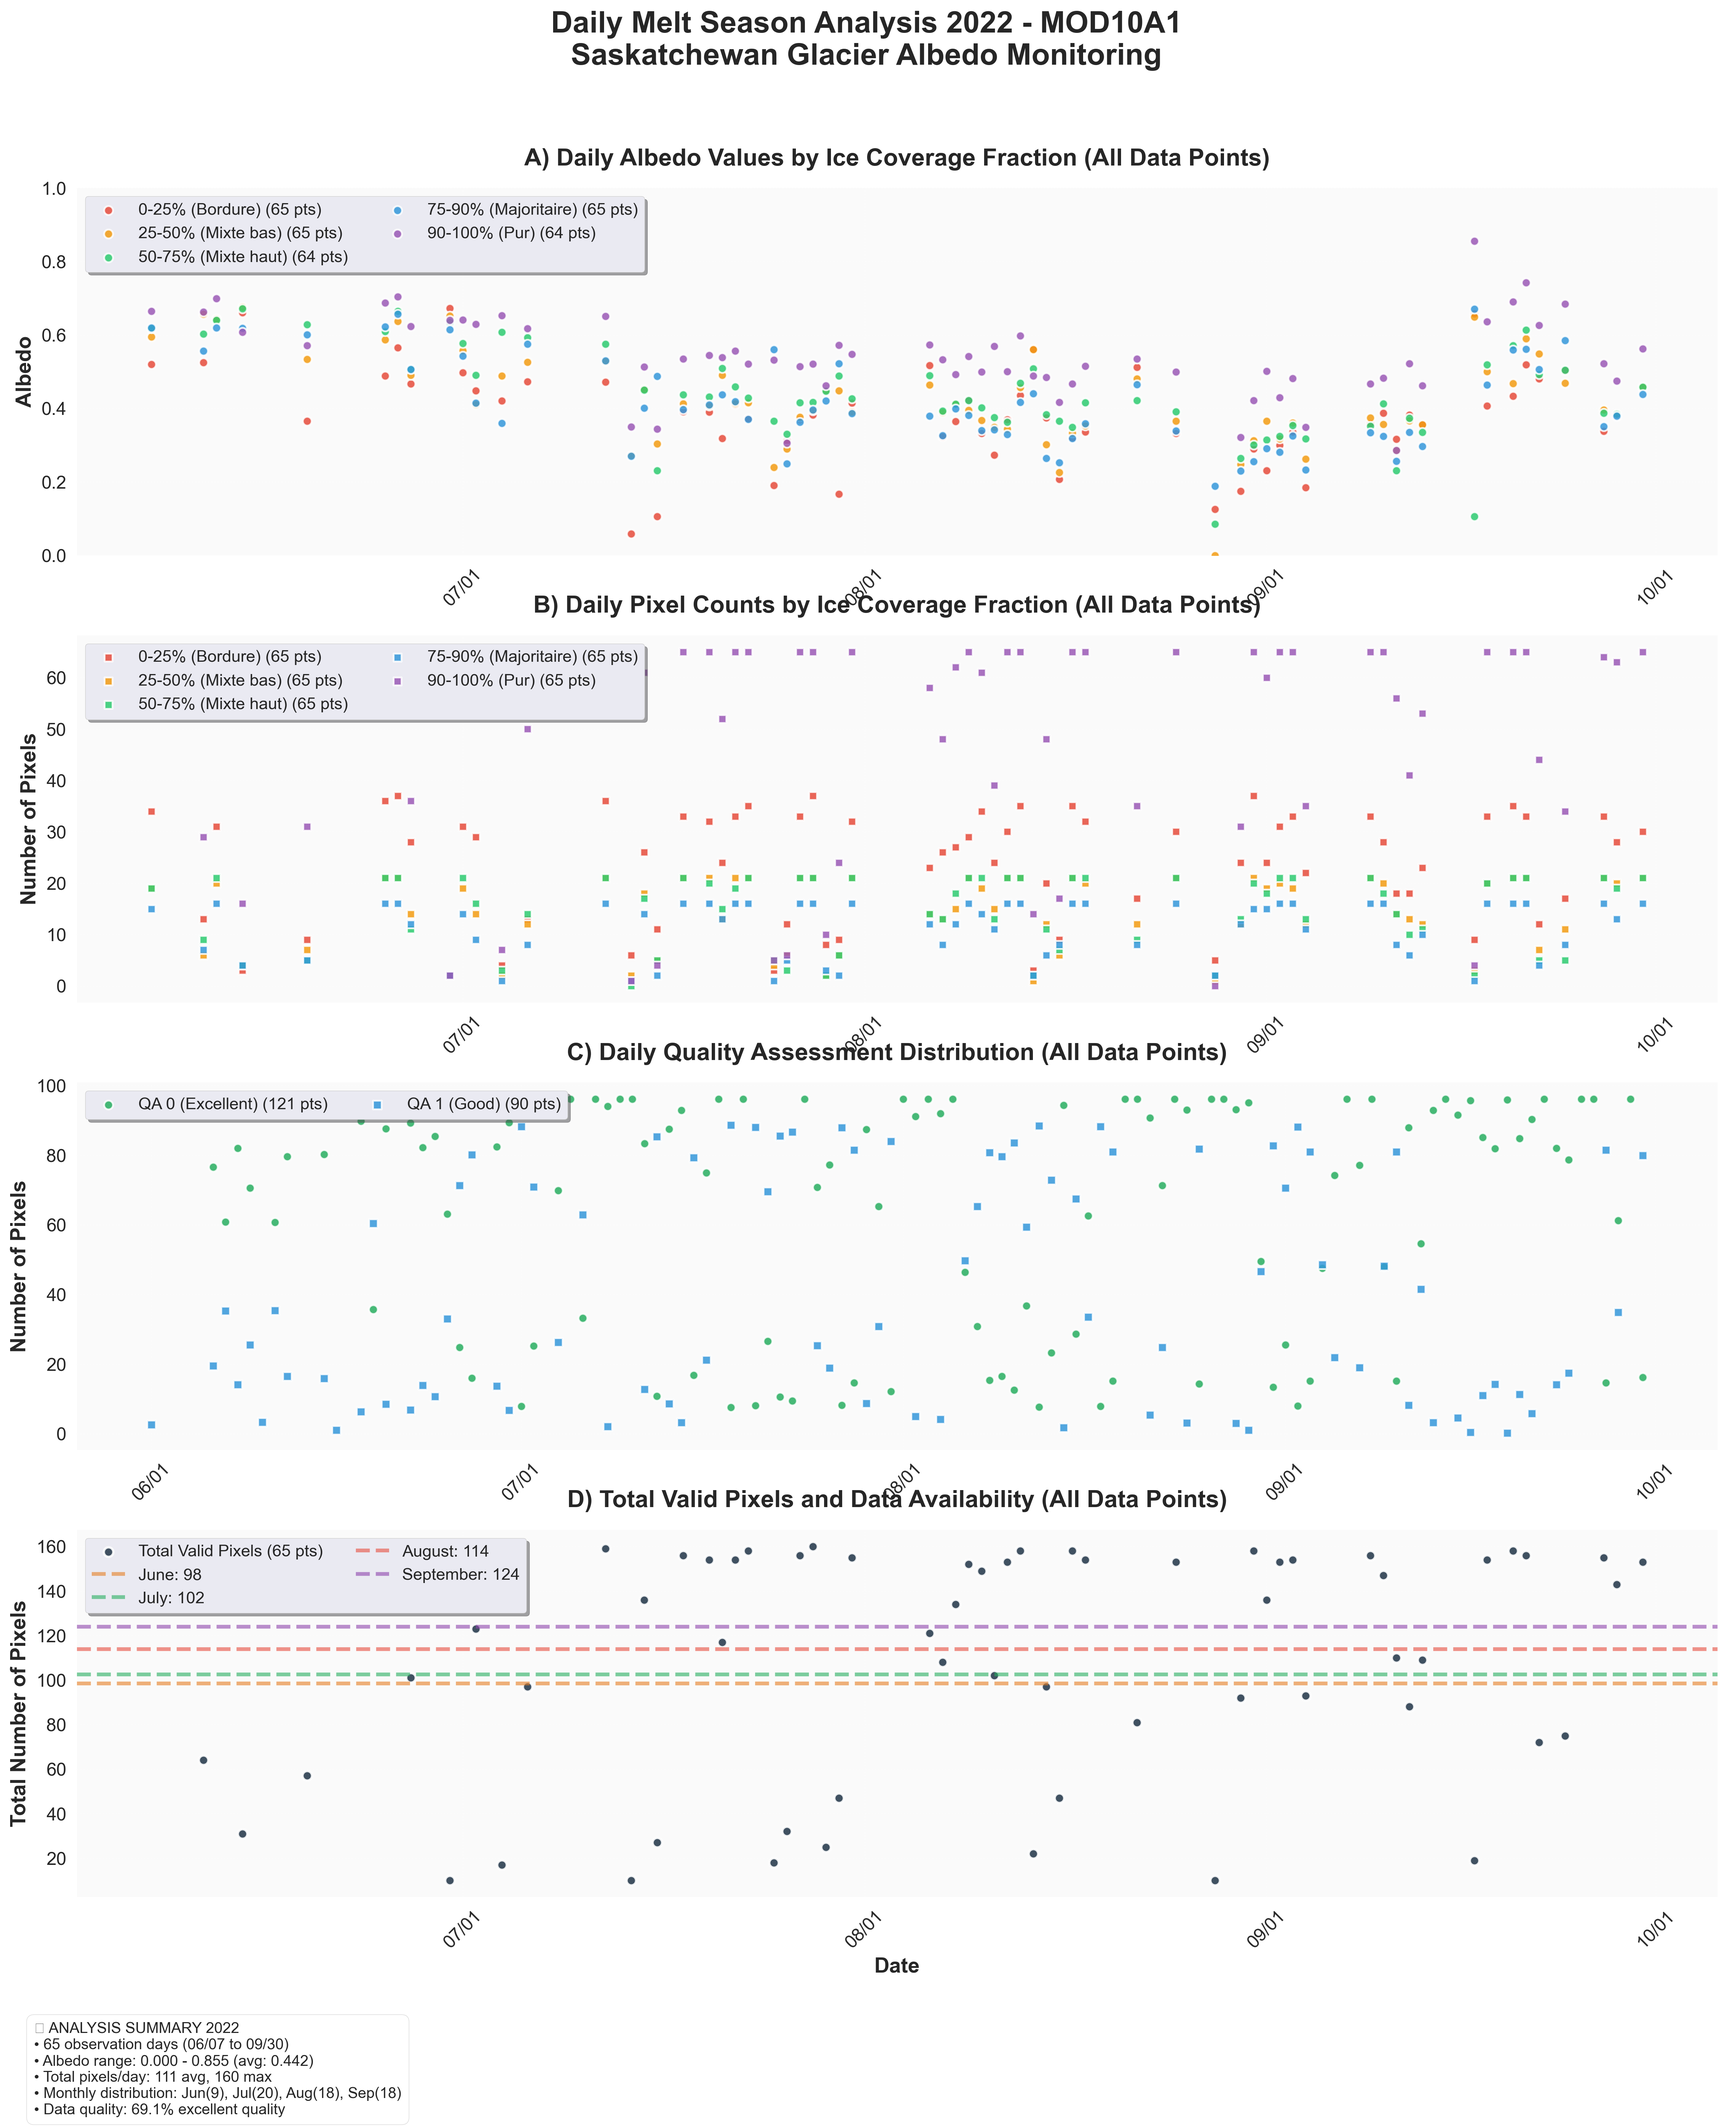
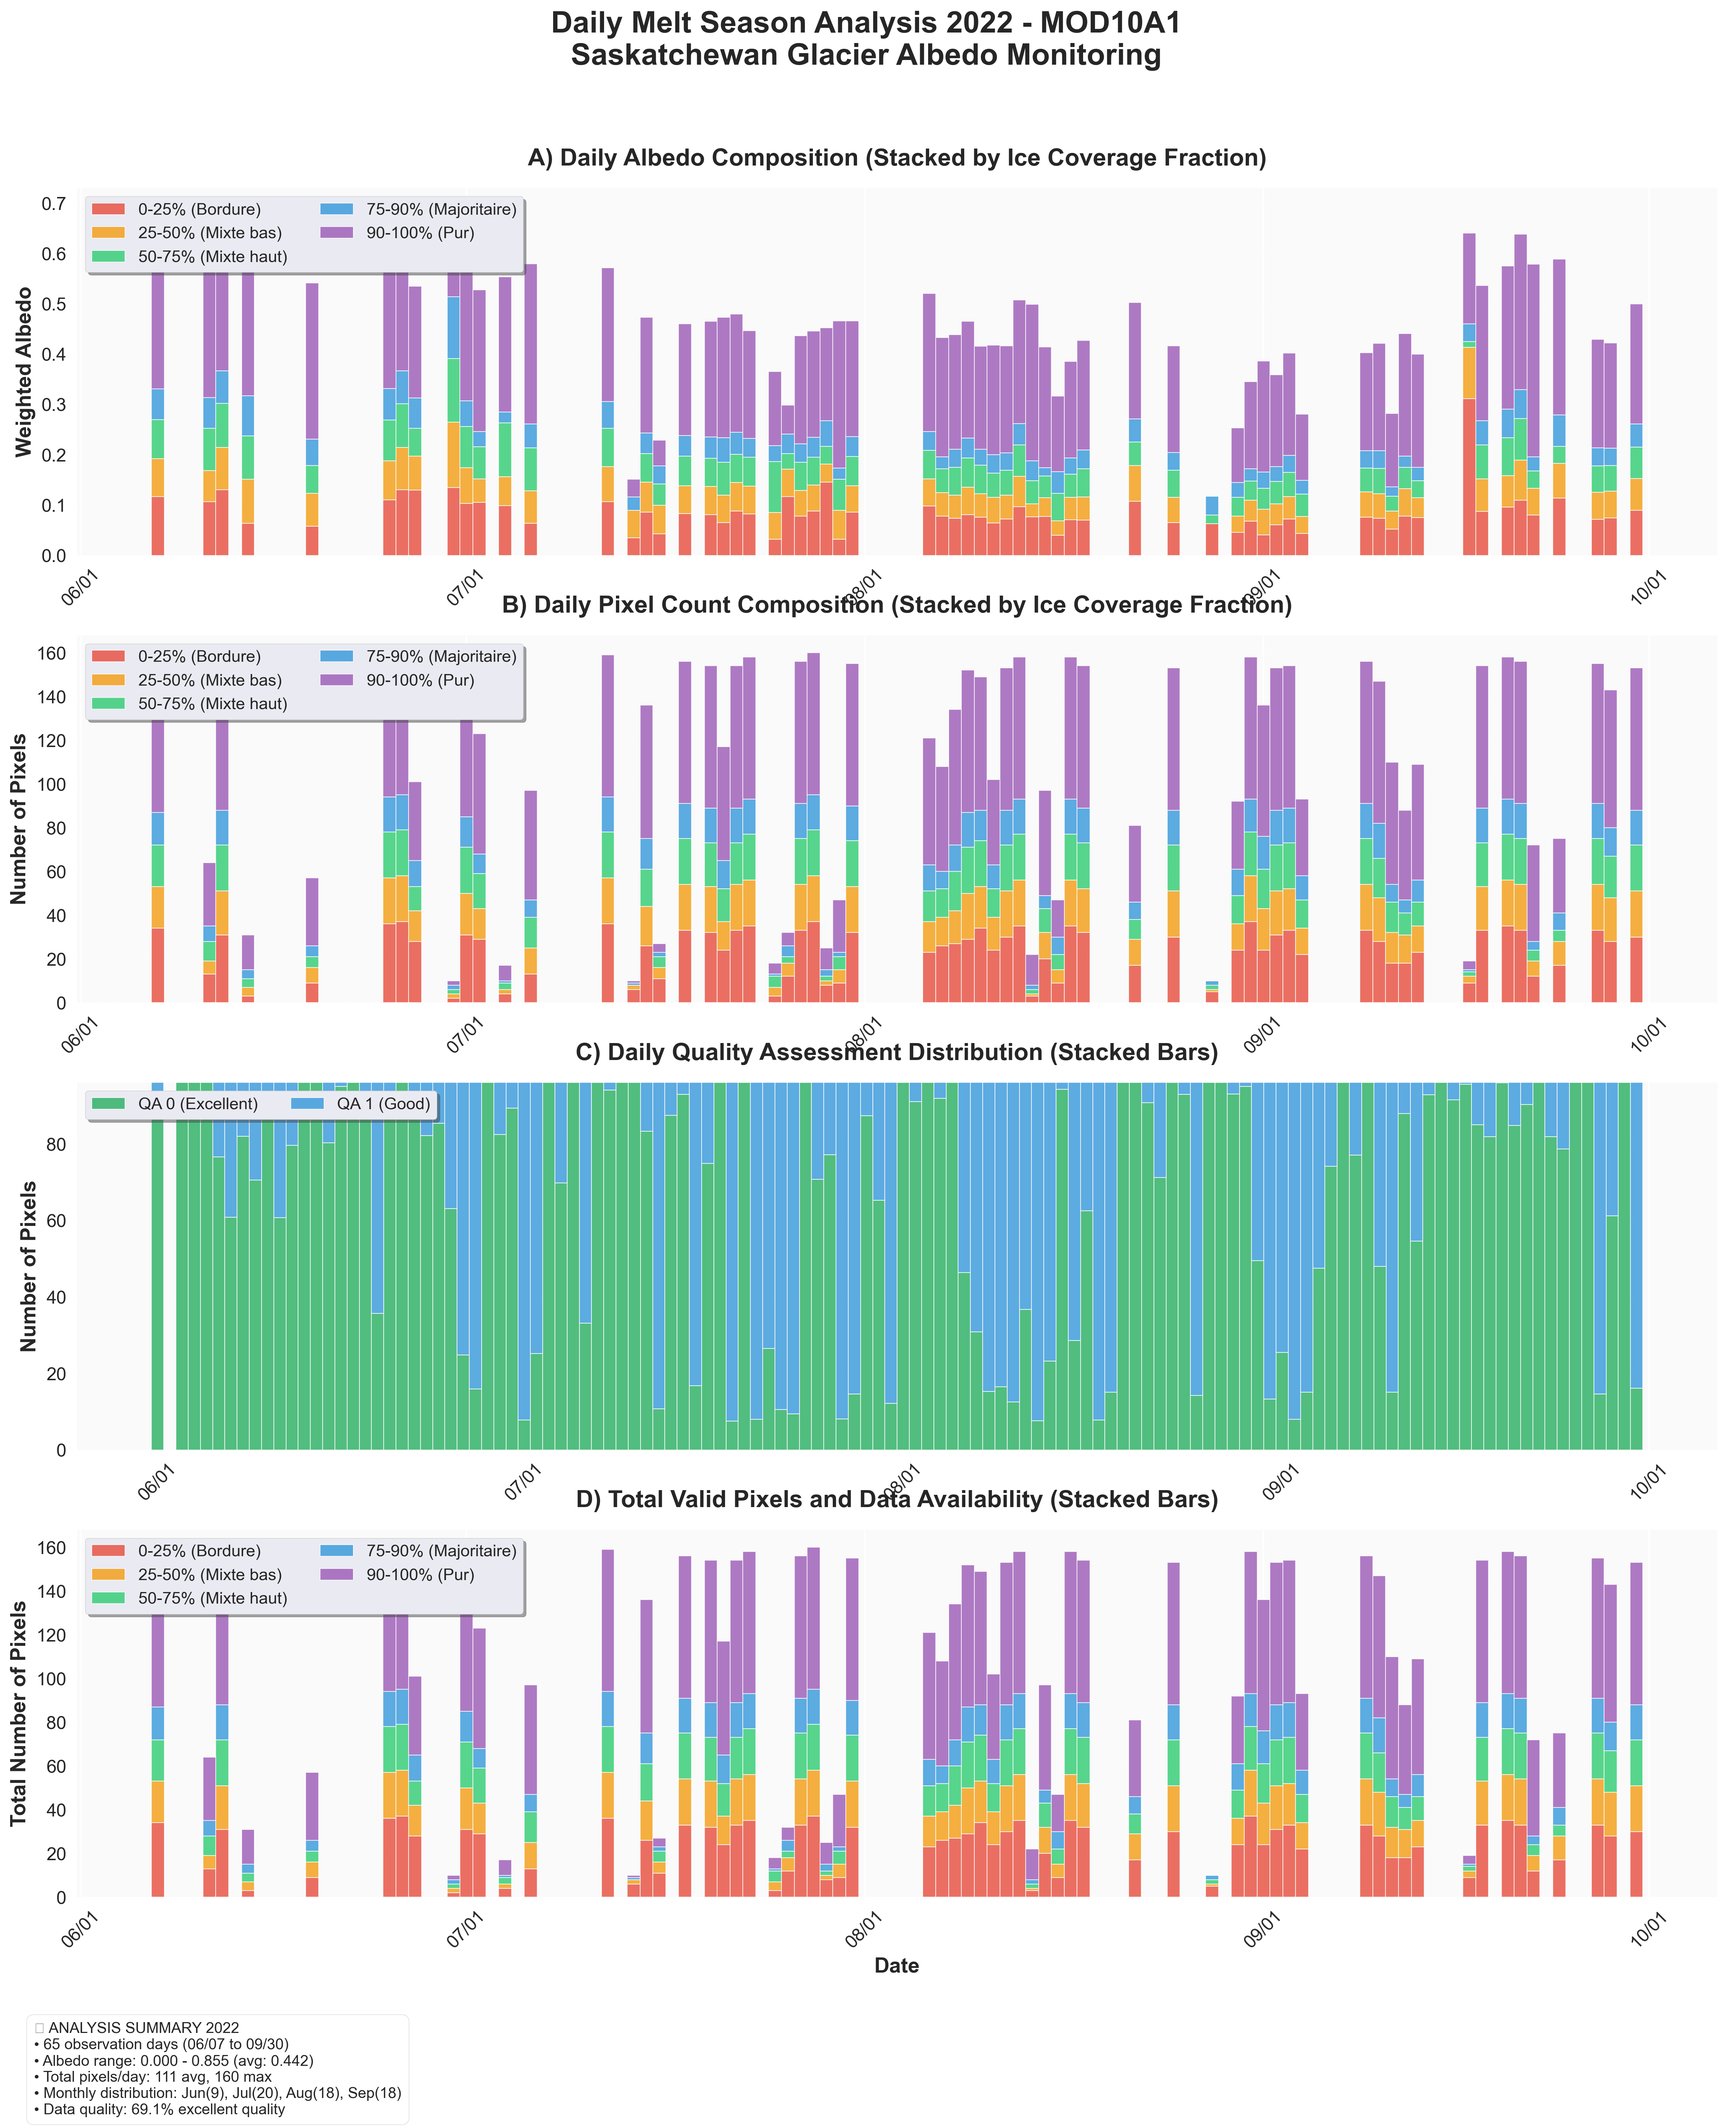
Remove redundant Panel D from daily_melt_season plots
- Reduced from 4 to 3 panels (removed Total Valid Pixels panel)
- Panel B already shows pixel composition with stacked bars
- Adjusted figure size from 16x20 to 16x15 for better proportions
- Added X-axis label to Panel C (now the bottom panel)
- Cleaner, less redundant visualization layout

🤖 Generated with [Claude Code](https://claude.ai/code)

diff --git a/src/saskatchewan_albedo/visualization/pixel_plots.py b/src/saskatchewan_albedo/visualization/pixel_plots.py
@@ -449,8 +449,8 @@ class PixelVisualizer:
         Returns:
             str: Path to saved plot
         """
-        # Create figure with 4 vertically stacked subplots for better readability
-        fig, axes = plt.subplots(4, 1, figsize=(16, 20))
+        # Create figure with 3 vertically stacked subplots for better readability
+        fig, axes = plt.subplots(3, 1, figsize=(16, 15))
         
         # Enhanced title with dataset info
         dataset_name = "MOD10A1" if "mod10a1" in dataset_suffix else "MCD43A3"
@@ -668,6 +668,7 @@ class PixelVisualizer:
             ax3.set_title('C) Daily Quality Assessment Distribution (Stacked Bars)', 
                          fontsize=16, fontweight='bold', pad=15)
             ax3.set_ylabel('Number of Pixels', fontsize=14, fontweight='bold')
+            ax3.set_xlabel('Date', fontsize=14, fontweight='bold')
             ax3.legend(loc='upper left', frameon=True, fancybox=True, shadow=True, 
                       fontsize=11, ncol=2)
             ax3.grid(True, alpha=0.4, linestyle=':', linewidth=0.8, axis='y')
@@ -677,90 +678,8 @@ class PixelVisualizer:
                     ha='center', va='center', transform=ax3.transAxes, fontsize=14)
             ax3.set_title('C) Daily Quality Assessment Distribution (Not Available)', 
                          fontsize=16, fontweight='bold', pad=15)
+            ax3.set_xlabel('Date', fontsize=14, fontweight='bold')
         
-        # =================================================================
-        # SUBPLOT D: Total Valid Pixels and Data Availability - STACKED BARS
-        # =================================================================
-        ax4 = axes[3]
-        
-        total_pixel_plotted = False
-        
-        # Check if we have fraction pixel count data for stacked bars
-        pixel_cols = [f"{fraction}_pixel_count" for fraction in self.fraction_classes 
-                     if f"{fraction}_pixel_count" in year_data.columns]
-        
-        if pixel_cols:
-            # Create stacked bars showing fraction composition
-            pixel_valid_dates = []
-            pixel_stacked_data = {fraction: [] for fraction in self.fraction_classes}
-            
-            for _, row in year_data.iterrows():
-                total_day_pixels = sum(row[f"{fraction}_pixel_count"] 
-                                     for fraction in self.fraction_classes 
-                                     if f"{fraction}_pixel_count" in year_data.columns 
-                                     and pd.notna(row[f"{fraction}_pixel_count"]))
-                
-                if total_day_pixels > 0:
-                    pixel_valid_dates.append(row['date'])
-                    for fraction in self.fraction_classes:
-                        col_name = f"{fraction}_pixel_count"
-                        if col_name in year_data.columns and pd.notna(row[col_name]):
-                            pixel_stacked_data[fraction].append(max(0, row[col_name]))
-                        else:
-                            pixel_stacked_data[fraction].append(0)
-            
-            if pixel_valid_dates:
-                # Create stacked bars for total pixel composition
-                width = pd.Timedelta(days=1)  # Bar width
-                bottom_values = np.zeros(len(pixel_valid_dates))
-                
-                for fraction in self.fraction_classes:
-                    values = pixel_stacked_data[fraction]
-                    if any(v > 0 for v in values):
-                        ax4.bar(pixel_valid_dates, values, width, bottom=bottom_values,
-                               label=f'{self.class_labels[fraction]}',
-                               color=modern_colors.get(fraction, '#7f8c8d'),
-                               alpha=0.8, edgecolor='white', linewidth=0.5)
-                        bottom_values += np.array(values)
-                
-                total_pixel_plotted = True
-                print(f"✅ Panel D: Stacked total pixel bars for {len(pixel_valid_dates)} days")
-        else:
-            # Fallback to total pixels if fraction data not available
-            total_pixels = None
-            if 'total_valid_pixels' in year_data.columns:
-                total_pixels = year_data['total_valid_pixels']
-            
-            if total_pixels is not None:
-                valid_mask = total_pixels.notna() & (total_pixels > 0)
-                if valid_mask.sum() > 0:
-                    dates_valid = year_data.loc[valid_mask, 'date']
-                    values_valid = total_pixels.loc[valid_mask]
-                    
-                    # Single-color bars for total pixels
-                    width = pd.Timedelta(days=1)
-                    ax4.bar(dates_valid, values_valid, width,
-                           color='#2c3e50', alpha=0.8, 
-                           label=f'Total Valid Pixels ({len(dates_valid)} days)',
-                           edgecolor='white', linewidth=0.5)
-                    
-                    total_pixel_plotted = True
-                    print(f"✅ Panel D: Total pixel bars for {len(dates_valid)} days")
-        
-        if total_pixel_plotted:
-            ax4.set_title('D) Total Valid Pixels and Data Availability (Stacked Bars)', 
-                         fontsize=16, fontweight='bold', pad=15)
-            ax4.set_ylabel('Total Number of Pixels', fontsize=14, fontweight='bold')
-            ax4.set_xlabel('Date', fontsize=14, fontweight='bold')
-            ax4.legend(loc='upper left', frameon=True, fancybox=True, shadow=True, 
-                      fontsize=11, ncol=2)
-            ax4.grid(True, alpha=0.4, linestyle=':', linewidth=0.8, axis='y')
-            ax4.set_facecolor('#fafafa')
-        else:
-            ax4.text(0.5, 0.5, 'No total pixel data available for this year', 
-                    ha='center', va='center', transform=ax4.transAxes, fontsize=14)
-            ax4.set_title('D) Total Valid Pixels (Not Available)', 
-                         fontsize=16, fontweight='bold', pad=15)
         
         # =================================================================
         # FINAL FORMATTING AND LAYOUT
